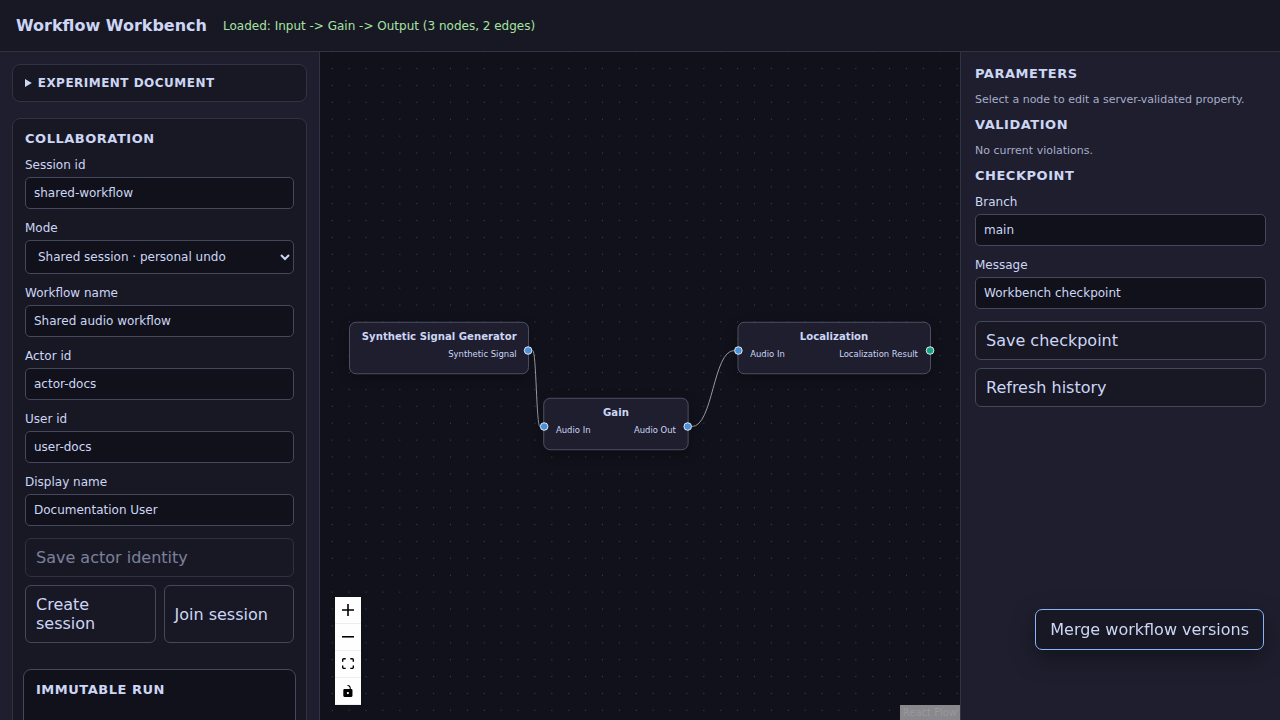
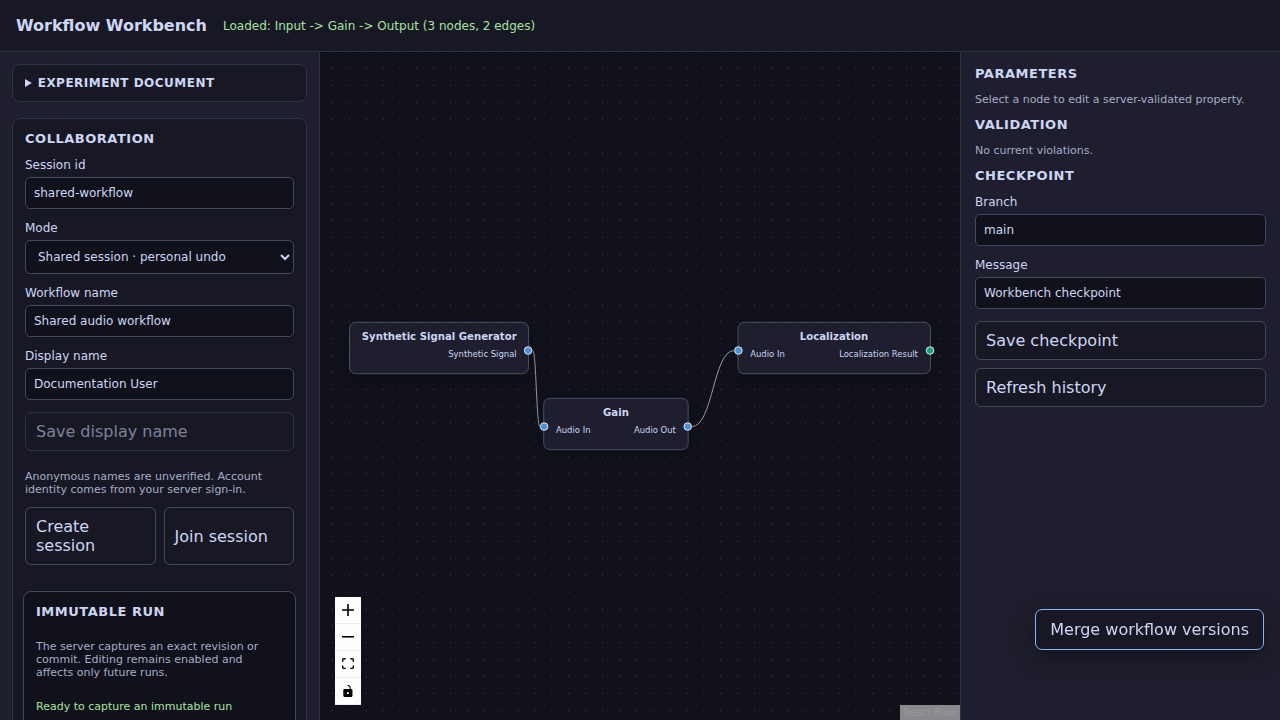
fix: register immutable run endpoints and exercise packaged browser execution

Changed region(s): [[0.0, 0.4889, 0.2188, 1.0]]

diff --git a/workbench-screenshot-tests/src/test/java/org/hammer/audio/workbench/screenshot/WorkbenchTwoBrowserCollaborationIT.java b/workbench-screenshot-tests/src/test/java/org/hammer/audio/workbench/screenshot/WorkbenchTwoBrowserCollaborationIT.java
@@ -10,6 +10,7 @@ import com.microsoft.playwright.Page;
 import java.io.IOException;
 import java.nio.file.Files;
 import java.nio.file.Path;
+import java.util.List;
 import java.util.Map;
 import org.junit.jupiter.api.AfterAll;
 import org.junit.jupiter.api.BeforeAll;
@@ -170,10 +171,20 @@ class WorkbenchTwoBrowserCollaborationIT {
         assertFalse(
             ((String) second.evaluate("document.cookie")).contains("aa_collab_"),
             "Collaboration credentials must not be readable by browser scripts");
-        second.locator("[data-testid='run-current-revision']").click();
+        buildExecutableWorkflow(second, "e2e-same-browser-tabs");
+        waitForRevision(first.page(), 11);
+        waitForRevision(second, 11);
+        clickWhenEnabled(second, "[data-testid='run-current-revision']");
+        Locator runState = second.locator("[data-testid='run-state']");
+        Locator runError = second.locator("[data-testid='run-error']");
         second.waitForCondition(
-            () -> "COMPLETED".equals(second.locator("[data-testid='run-state']").innerText()));
-        assertEquals(0, second.locator("[data-testid='run-error']").count());
+            () ->
+                runError.count() > 0
+                    || (runState.count() > 0
+                        && List.of("COMPLETED", "FAILED", "CANCELLED")
+                            .contains(runState.innerText())));
+        assertEquals(0, runError.count(), () -> runError.innerText());
+        assertEquals("COMPLETED", runState.innerText());
         first.page().reload();
         waitForActiveSession(first.page(), "e2e-same-browser-tabs");
         waitForLive(first.page());
@@ -268,6 +279,46 @@ class WorkbenchTwoBrowserCollaborationIT {
     page.locator("[data-testid='join-session-button']").click();
     waitForActiveSession(page, sessionId);
     waitForLive(page);
+  }
+
+  private static void buildExecutableWorkflow(Page page, String sessionId) {
+    page.evaluate(
+        """
+        async sessionId => {
+          const actor = JSON.parse(sessionStorage.getItem('audio-analyzer.workflow.actor'));
+          const operations = [
+            {type: 'CreateNode', catalogType: 'synthetic-signal-generator', nodeId: 'node.tabs.source'},
+            {type: 'CreateNode', catalogType: 'gain', nodeId: 'node.tabs.gain'}
+          ];
+          const properties = [
+            ['node.tabs.source', 'signal.waveform', 'sine'],
+            ['node.tabs.source', 'signal.frequency-hz', '1000'],
+            ['node.tabs.source', 'signal.phase-radians', '0'],
+            ['node.tabs.source', 'signal.amplitude', '0.5'],
+            ['node.tabs.source', 'signal.sample-rate-hz', '8000'],
+            ['node.tabs.source', 'signal.channels', '1'],
+            ['node.tabs.source', 'signal.frame-count', '4096'],
+            ['node.tabs.gain', 'gain.factor', '0.5']
+          ];
+          for (const [targetId, propertyKey, newValue] of properties) {
+            operations.push({type: 'UpdateProperty', target: 'NODE', targetId, propertyKey, newValue});
+          }
+          operations.push({type: 'ConnectPorts', edge: {
+            id: 'edge.tabs.source-gain', sourceNodeId: 'node.tabs.source', sourcePortId: 'signal-out',
+            targetNodeId: 'node.tabs.gain', targetPortId: 'audio-in'
+          }});
+          for (let revision = 0; revision < operations.length; revision++) {
+            const response = await fetch(`/workflow/sessions/${encodeURIComponent(sessionId)}/operations`, {
+              method: 'POST',
+              headers: {'Content-Type': 'application/json', 'X-Workflow-Actor': actor.actorId},
+              body: JSON.stringify({mode: 'SHARED_SESSION_PERSONAL_UNDO', actor, expectedRevision: revision,
+                operation: {...operations[revision], operationId: `operation.tabs.${revision}`}})
+            });
+            if (!response.ok) throw new Error(`Executable fixture rejected: ${response.status} ${await response.text()}`);
+          }
+        }
+        """,
+        sessionId);
   }
 
   private static void waitForActiveSession(Page page, String sessionId) {

diff --git a/audio-app/src/test/java/org/hammer/audio/app/WorkbenchRunEndpointWiringTest.java b/audio-app/src/test/java/org/hammer/audio/app/WorkbenchRunEndpointWiringTest.java
@@ -1,0 +1,40 @@
+package org.hammer.audio.app;
+
+import static org.springframework.test.web.servlet.request.MockMvcRequestBuilders.get;
+import static org.springframework.test.web.servlet.request.MockMvcRequestBuilders.post;
+import static org.springframework.test.web.servlet.result.MockMvcResultMatchers.content;
+import static org.springframework.test.web.servlet.result.MockMvcResultMatchers.jsonPath;
+import static org.springframework.test.web.servlet.result.MockMvcResultMatchers.status;
+
+import org.junit.jupiter.api.Test;
+import org.springframework.boot.test.context.runner.WebApplicationContextRunner;
+import org.springframework.http.MediaType;
+import org.springframework.test.web.servlet.MockMvc;
+import org.springframework.test.web.servlet.setup.MockMvcBuilders;
+
+class WorkbenchRunEndpointWiringTest {
+
+  @Test
+  void productionApplicationExposesRunsWithTheIdentityBoundary() {
+    new WebApplicationContextRunner()
+        .withUserConfiguration(WorkbenchApplication.class)
+        .withPropertyValues("spring.flyway.enabled=false", "workbench.persistence.mode=memory")
+        .run(
+            context -> {
+              MockMvc mvc = MockMvcBuilders.webAppContextSetup(context).build();
+              mvc.perform(get("/workflow/runs"))
+                  .andExpect(status().isOk())
+                  .andExpect(content().json("[]"));
+              mvc.perform(
+                      post("/workflow/runs")
+                          .contentType(MediaType.APPLICATION_JSON)
+                          .content(
+                              """
+                              {"startCommandId":"command.unauthenticated", "sourceKind":"LIVE_SESSION",
+                               "sessionId":"session.private", "expectedRevision":0}
+                              """))
+                  .andExpect(status().isForbidden())
+                  .andExpect(jsonPath("$.code").value("COLLABORATION_IDENTITY_REQUIRED"));
+            });
+  }
+}

diff --git a/audio-app/src/main/java/org/hammer/audio/app/WorkbenchApplication.java b/audio-app/src/main/java/org/hammer/audio/app/WorkbenchApplication.java
@@ -28,7 +28,8 @@ import org.springframework.boot.autoconfigure.SpringBootApplication;
     scanBasePackages = {
       "org.hammer.audio.app",
       "org.hammer.audio.experiment.document.http",
-      "org.hammer.audio.workflow.editor.http"
+      "org.hammer.audio.workflow.editor.http",
+      "org.hammer.audio.workflow.execution.http"
     })
 public class WorkbenchApplication {
 

diff --git a/workbench-screenshot-tests/src/test/java/org/hammer/audio/workbench/screenshot/WorkbenchWorkflowRunIT.java b/workbench-screenshot-tests/src/test/java/org/hammer/audio/workbench/screenshot/WorkbenchWorkflowRunIT.java
@@ -315,7 +315,7 @@ class WorkbenchWorkflowRunIT {
   }
 
   private static boolean isJarAvailable() {
-    String jarPath = System.getProperty("workbench.jar");
+    String jarPath = System.getProperty("workbench.jar.path");
     return jarPath != null && Files.isRegularFile(Path.of(jarPath));
   }
 
